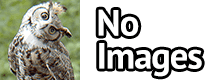
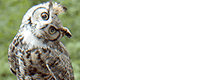
Tweak 'No Images' message

Changed region(s): [[0.4455, 0.075, 1.0, 1.0], [0.0594, 0.0, 0.4158, 1.0], [0.0891, 0.375, 0.1188, 0.4]]

diff --git a/cam.py b/cam.py
@@ -438,7 +438,9 @@ buttons = [
     cb=deleteCallback, value=False)],
 
   # Screen mode 2 is 'No Images'
-  [Button((0,0,320,240), bg='empty', cb=doneCallback)],
+  [Button((0,  0,320,240), cb=doneCallback), # Full screen = button
+   Button((0,188,320, 52), bg='done'),       # Fake 'Done' button
+   Button((0, 53,320, 80), bg='empty')],     # 'Empty' message
 
   # Screen mode 3 is viewfinder / snapshot
   [Button((  0,188,156, 52), bg='gear', cb=viewCallback, value=0),
